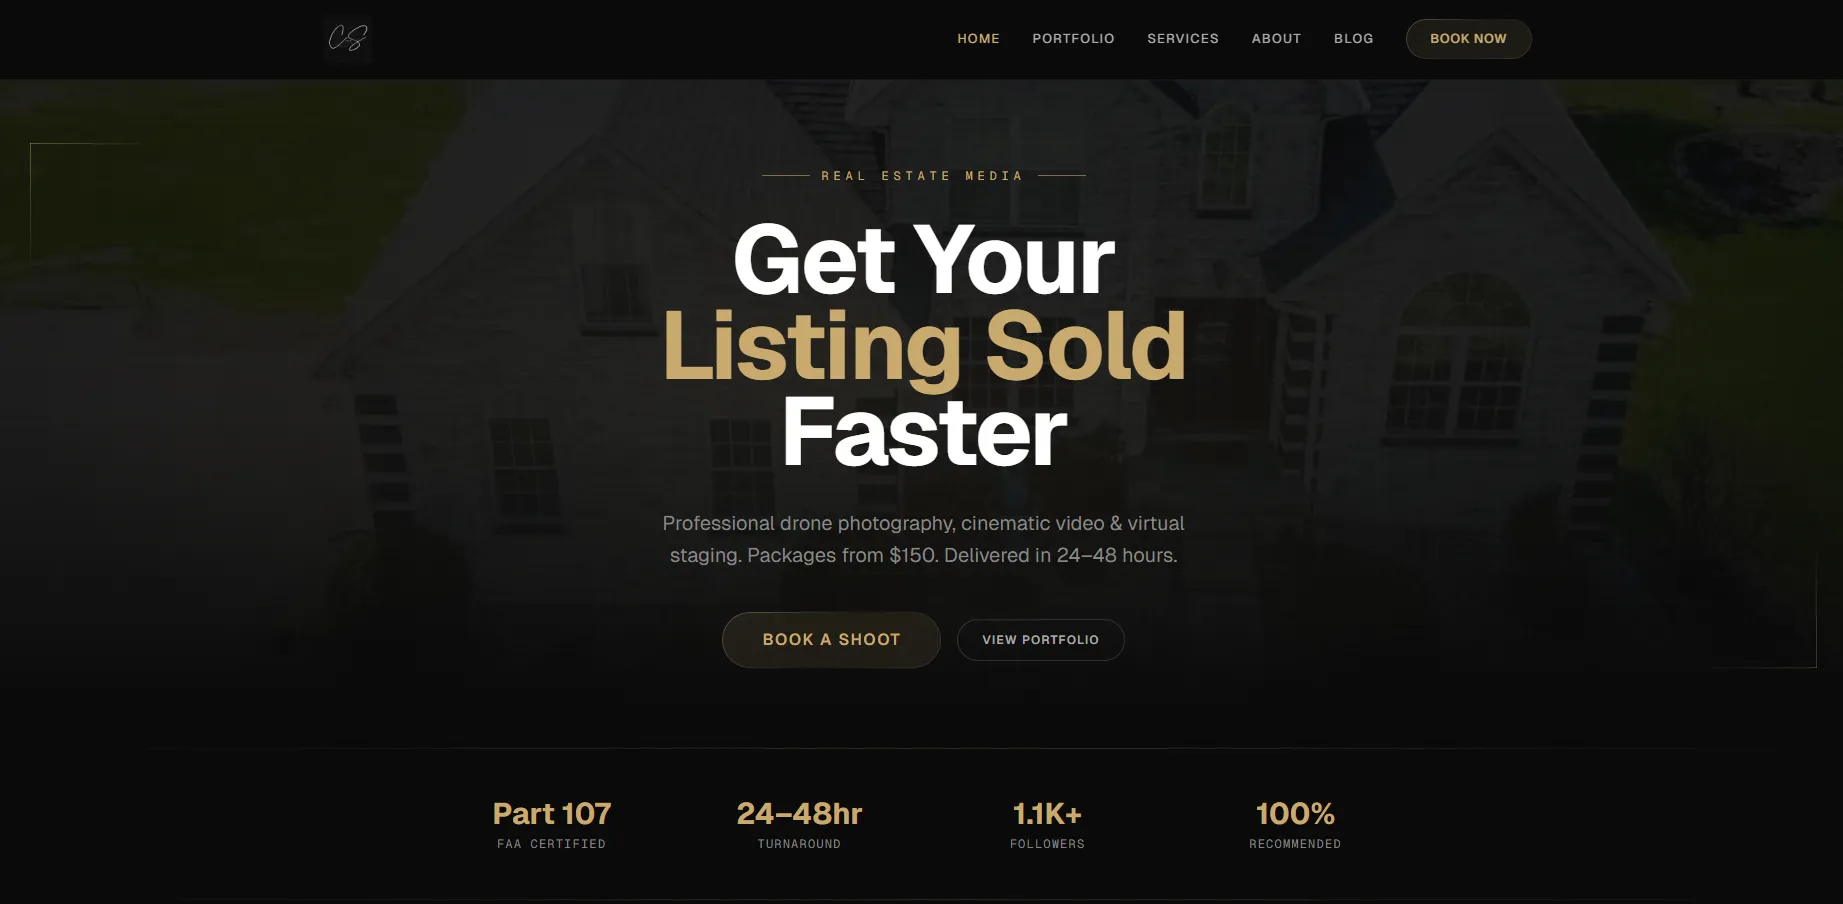
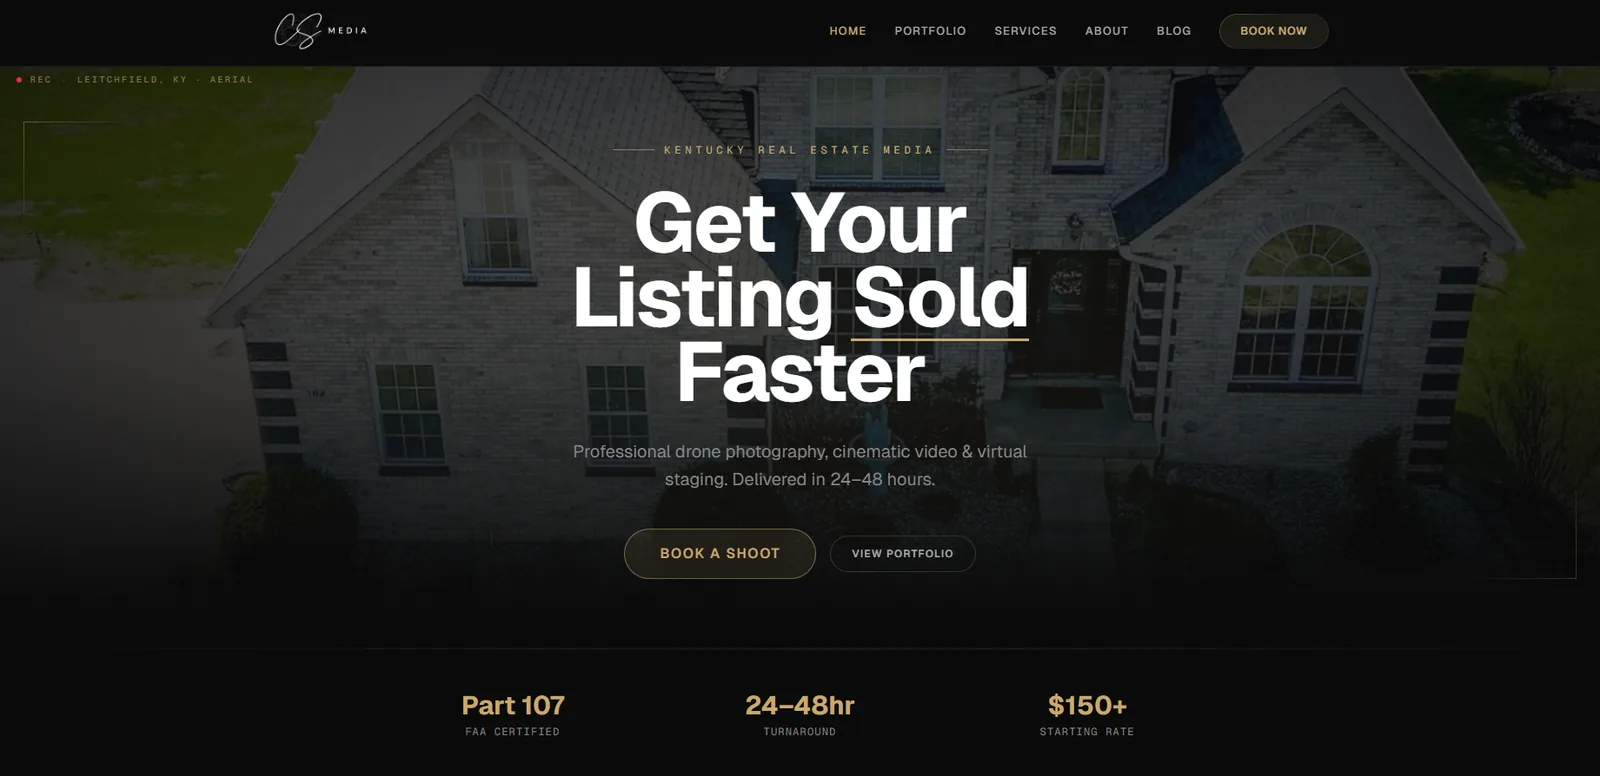
Refresh CS Media carousel: 7 updated screenshots, new order

diff --git a/app/portfolio/portfolio-page.tsx b/app/portfolio/portfolio-page.tsx
@@ -20,7 +20,7 @@ const featuredProjects = [
     ],
     href: 'https://cscreatesmedia.com',
     image: '/csmedia-listing-sold-hero.webp',
-    images: ['/csmedia-listing-sold-hero.webp', '/csmedia-virtual-staging-service.webp', '/csmedia-featured-projects-portfolio.webp', '/csmedia-client-reviews-testimonials.webp', '/csmedia-booking-call-to-action.webp'],
+    images: ['/csmedia-listing-sold-hero.webp', '/csmedia-featured-projects-portfolio.webp', '/csmedia-services-grid.webp', '/csmedia-virtual-staging-service.webp', '/csmedia-how-it-works.webp', '/csmedia-client-reviews-testimonials.webp', '/csmedia-booking-call-to-action.webp'],
     tags: ['Lead Generation', 'Branding'],
     results: {
       desktop: { performance: 100, accessibility: 100, bestPractices: 100, seo: 100, fcp: '0.3s', lcp: '0.7s', cls: '0', speedIndex: '0.6s', image: '/csmedia-speed-desktop.webp' },

diff --git a/src/components/PortfolioPreview.tsx b/src/components/PortfolioPreview.tsx
@@ -6,7 +6,7 @@ import { ArrowRight, Star, ExternalLink } from 'lucide-react';
 import Link from 'next/link';
 import { trackEvent } from '../lib/gtag';
 
-const images = ['/csmedia-listing-sold-hero.webp', '/csmedia-virtual-staging-service.webp', '/csmedia-featured-projects-portfolio.webp', '/csmedia-client-reviews-testimonials.webp', '/csmedia-booking-call-to-action.webp'];
+const images = ['/csmedia-listing-sold-hero.webp', '/csmedia-featured-projects-portfolio.webp', '/csmedia-services-grid.webp', '/csmedia-virtual-staging-service.webp', '/csmedia-how-it-works.webp', '/csmedia-client-reviews-testimonials.webp', '/csmedia-booking-call-to-action.webp'];
 
 function CarouselImage() {
   const [activeIndex, setActiveIndex] = useState(0);
